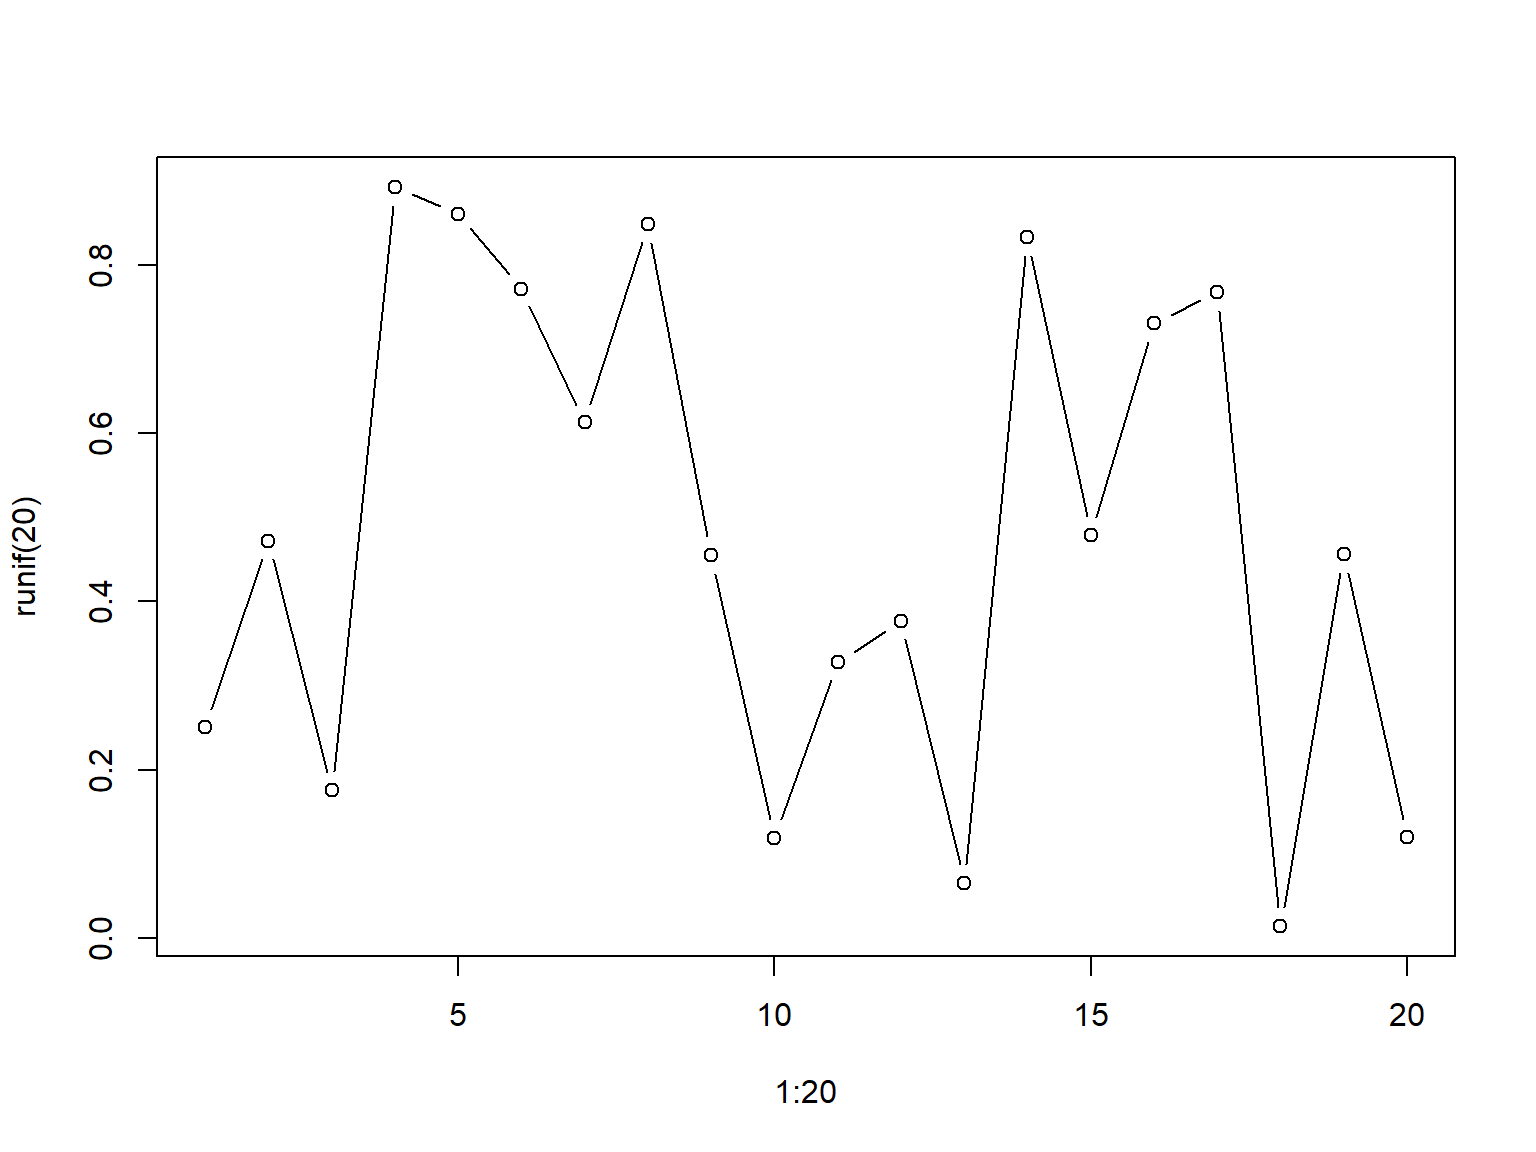
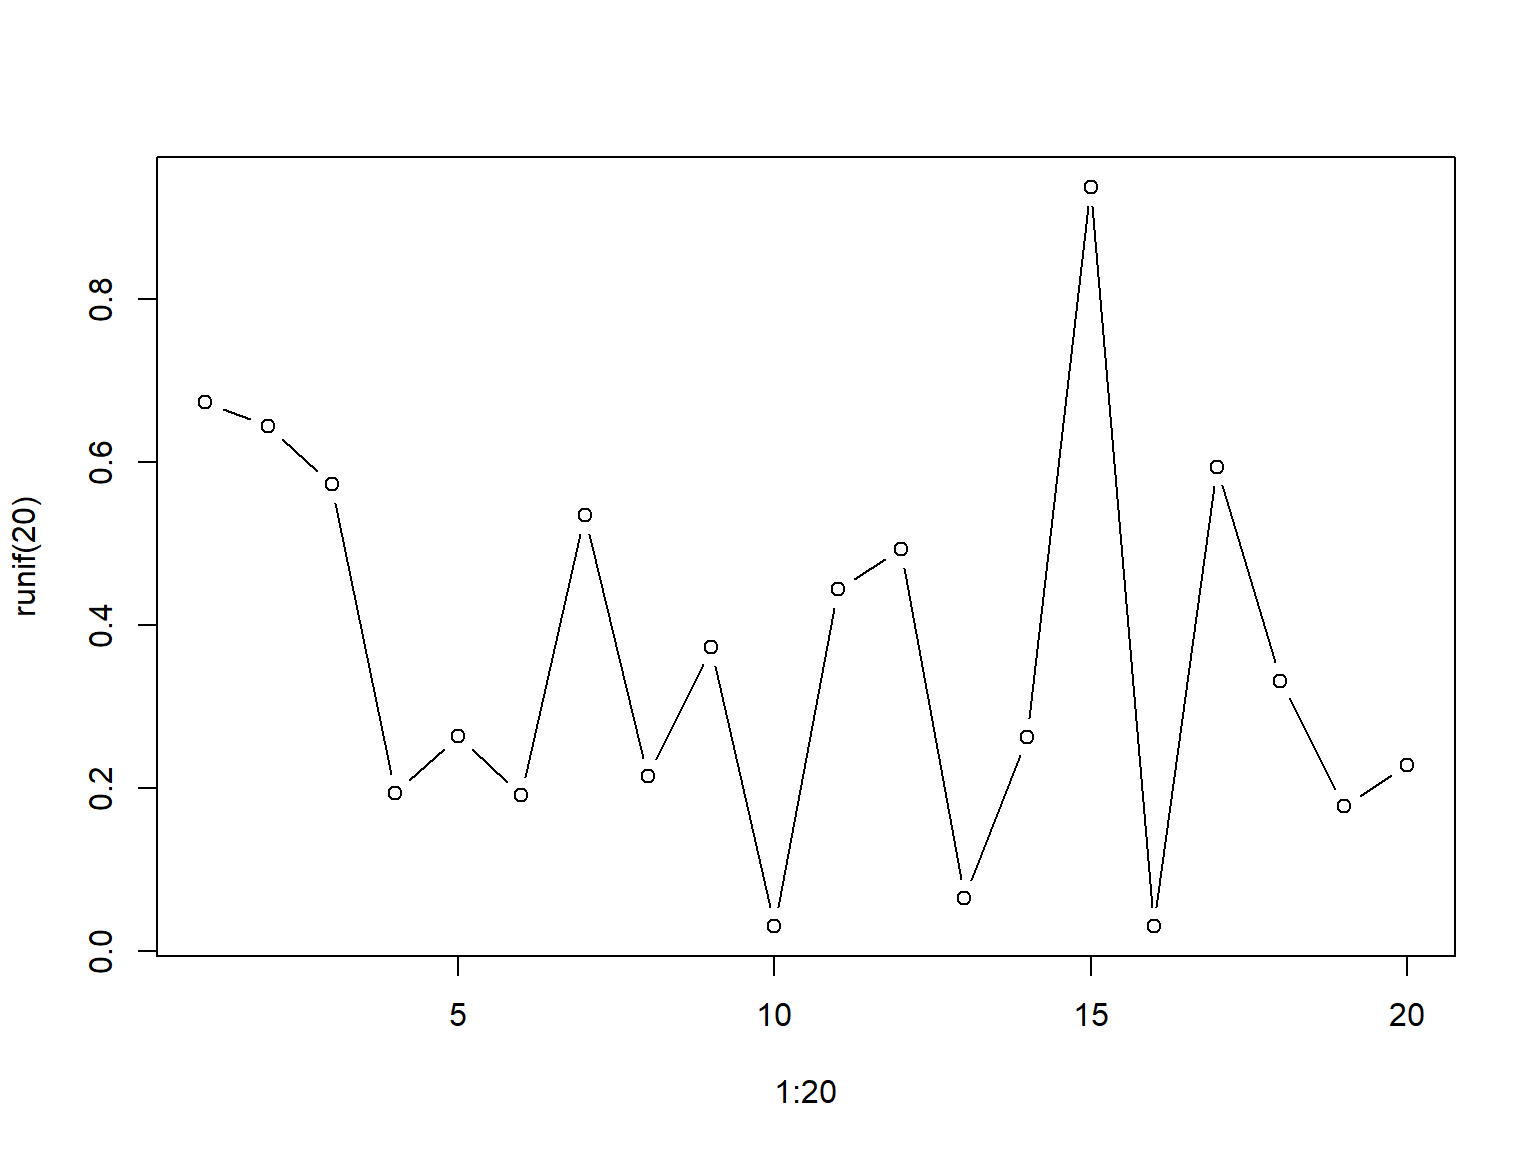
Updated Posit Cloud URL

diff --git a/slides/r-intro01-getting-started.html b/slides/r-intro01-getting-started.html
@@ -348,8 +348,8 @@ class="slide section level1">
 </div>
 <p>RStudio Cloud project for this workshop:</p>
 <p style="font-family:monospace; font-size:110%; text-align:center;">
-<a href="https://posit.cloud/content/6366989"
-target="_blank">https://posit.cloud/content/6366989</a>
+<a href="https://posit.cloud/content/6379477"
+target="_blank">https://posit.cloud/content/6379477</a>
 </p>
 <p>After it opens, click on ‘Save a Permanent Copy’:</p>
 <p><img src="images/rstudio-cloud_save-perm-copy_334x58.png"
@@ -554,12 +554,11 @@ style="margin-left:2em;" /></p>
 <p>Some built-in constants are also vectors:</p>
 <div class="indented2 indented2r">
 <div class="sourceCode" id="cb11"><pre class="sourceCode r"><code class="sourceCode r"><span id="cb11-1"><a href="#cb11-1" tabindex="-1"></a>LETTERS</span></code></pre></div>
-<pre><code>##  [1] &quot;A&quot; &quot;B&quot; &quot;C&quot; &quot;D&quot; &quot;E&quot; &quot;F&quot; &quot;G&quot; &quot;H&quot; &quot;I&quot; &quot;J&quot; &quot;K&quot; &quot;L&quot; &quot;M&quot; &quot;N&quot; &quot;O&quot; &quot;P&quot; &quot;Q&quot; &quot;R&quot; &quot;S&quot; &quot;T&quot; &quot;U&quot; &quot;V&quot; &quot;W&quot; &quot;X&quot; &quot;Y&quot;
-## [26] &quot;Z&quot;</code></pre>
+<pre><code>##  [1] &quot;A&quot; &quot;B&quot; &quot;C&quot; &quot;D&quot; &quot;E&quot; &quot;F&quot; &quot;G&quot; &quot;H&quot; &quot;I&quot; &quot;J&quot; &quot;K&quot; &quot;L&quot; &quot;M&quot; &quot;N&quot; &quot;O&quot; &quot;P&quot; &quot;Q&quot; &quot;R&quot; &quot;S&quot; &quot;T&quot; &quot;U&quot; &quot;V&quot; &quot;W&quot; &quot;X&quot; &quot;Y&quot; &quot;Z&quot;</code></pre>
 <div class="sourceCode" id="cb13"><pre class="sourceCode r"><code class="sourceCode r"><span id="cb13-1"><a href="#cb13-1" tabindex="-1"></a>state.abb</span></code></pre></div>
-<pre><code>##  [1] &quot;AL&quot; &quot;AK&quot; &quot;AZ&quot; &quot;AR&quot; &quot;CA&quot; &quot;CO&quot; &quot;CT&quot; &quot;DE&quot; &quot;FL&quot; &quot;GA&quot; &quot;HI&quot; &quot;ID&quot; &quot;IL&quot; &quot;IN&quot; &quot;IA&quot; &quot;KS&quot; &quot;KY&quot; &quot;LA&quot; &quot;ME&quot; &quot;MD&quot;
-## [21] &quot;MA&quot; &quot;MI&quot; &quot;MN&quot; &quot;MS&quot; &quot;MO&quot; &quot;MT&quot; &quot;NE&quot; &quot;NV&quot; &quot;NH&quot; &quot;NJ&quot; &quot;NM&quot; &quot;NY&quot; &quot;NC&quot; &quot;ND&quot; &quot;OH&quot; &quot;OK&quot; &quot;OR&quot; &quot;PA&quot; &quot;RI&quot; &quot;SC&quot;
-## [41] &quot;SD&quot; &quot;TN&quot; &quot;TX&quot; &quot;UT&quot; &quot;VT&quot; &quot;VA&quot; &quot;WA&quot; &quot;WV&quot; &quot;WI&quot; &quot;WY&quot;</code></pre>
+<pre><code>##  [1] &quot;AL&quot; &quot;AK&quot; &quot;AZ&quot; &quot;AR&quot; &quot;CA&quot; &quot;CO&quot; &quot;CT&quot; &quot;DE&quot; &quot;FL&quot; &quot;GA&quot; &quot;HI&quot; &quot;ID&quot; &quot;IL&quot; &quot;IN&quot; &quot;IA&quot; &quot;KS&quot; &quot;KY&quot; &quot;LA&quot; &quot;ME&quot; &quot;MD&quot; &quot;MA&quot;
+## [22] &quot;MI&quot; &quot;MN&quot; &quot;MS&quot; &quot;MO&quot; &quot;MT&quot; &quot;NE&quot; &quot;NV&quot; &quot;NH&quot; &quot;NJ&quot; &quot;NM&quot; &quot;NY&quot; &quot;NC&quot; &quot;ND&quot; &quot;OH&quot; &quot;OK&quot; &quot;OR&quot; &quot;PA&quot; &quot;RI&quot; &quot;SC&quot; &quot;SD&quot; &quot;TN&quot;
+## [43] &quot;TX&quot; &quot;UT&quot; &quot;VT&quot; &quot;VA&quot; &quot;WA&quot; &quot;WV&quot; &quot;WI&quot; &quot;WY&quot;</code></pre>
 <div class="sourceCode" id="cb15"><pre class="sourceCode r"><code class="sourceCode r"><span id="cb15-1"><a href="#cb15-1" tabindex="-1"></a>month.name</span></code></pre></div>
 <pre><code>##  [1] &quot;January&quot;   &quot;February&quot;  &quot;March&quot;     &quot;April&quot;     &quot;May&quot;       &quot;June&quot;      &quot;July&quot;      &quot;August&quot;   
 ##  [9] &quot;September&quot; &quot;October&quot;   &quot;November&quot;  &quot;December&quot;</code></pre>
@@ -569,15 +568,15 @@ style="margin-left:2em;" /></p>
 <p>Random number functions:</p>
 <div class="indented2 indented2r">
 <div class="sourceCode" id="cb17"><pre class="sourceCode r"><code class="sourceCode r"><span id="cb17-1"><a href="#cb17-1" tabindex="-1"></a><span class="fu">runif</span>(<span class="dv">20</span>)</span></code></pre></div>
-<pre><code>##  [1] 0.13724123 0.90967580 0.95916498 0.28452439 0.94888352 0.87076291 0.17417834 0.20654216 0.02797795
-## [10] 0.77642690 0.28631124 0.55688143 0.76142189 0.76096482 0.33047902 0.60247499 0.27794112 0.42819622
-## [19] 0.96425800 0.55037837</code></pre>
+<pre><code>##  [1] 0.28960558 0.75506059 0.81382127 0.84026429 0.26750383 0.76233468 0.08651249 0.11651580 0.91137763
+## [10] 0.83986285 0.21201486 0.87102117 0.33150280 0.54795351 0.82083292 0.89807044 0.18071378 0.04501254
+## [19] 0.17348171 0.71289717</code></pre>
 <div class="sourceCode" id="cb19"><pre class="sourceCode r"><code class="sourceCode r"><span id="cb19-1"><a href="#cb19-1" tabindex="-1"></a><span class="fu">rnorm</span>(<span class="dv">20</span>)</span></code></pre></div>
-<pre><code>##  [1] -0.71601518  0.31513379  0.61285272 -0.26047050  1.22856538 -0.13902304  0.92643487  0.69292538
-##  [9] -0.49466845  1.36246046  0.09480217  0.46264870  0.19817349  0.03711287  0.63470117 -0.64488792
-## [17] -0.07009347  0.10087078 -2.38676994  0.25094069</code></pre>
+<pre><code>##  [1]  0.005138621  1.306360544  0.669559672 -1.209143616  0.524340842  0.249217890 -1.275267769  0.567249864
+##  [9]  1.418774903  0.937092319  0.247763389  0.106870124  0.642635125  1.329374019 -1.490548528  0.496423820
+## [17]  1.094050008 -1.436988564  0.383092993  0.685422867</code></pre>
 <div class="sourceCode" id="cb21"><pre class="sourceCode r"><code class="sourceCode r"><span id="cb21-1"><a href="#cb21-1" tabindex="-1"></a><span class="fu">sample</span>(month.abb, <span class="dv">3</span>)</span></code></pre></div>
-<pre><code>## [1] &quot;Aug&quot; &quot;Dec&quot; &quot;Jan&quot;</code></pre>
+<pre><code>## [1] &quot;Feb&quot; &quot;Nov&quot; &quot;Dec&quot;</code></pre>
 </div>
 </div>
 <div id="how-vectors-behave" class="slide section level1">
@@ -623,20 +622,20 @@ style="margin-left:2em;" /></p>
 <div class="indented2 indented2r">
 <div class="sourceCode" id="cb35"><pre class="sourceCode r"><code class="sourceCode r"><span id="cb35-1"><a href="#cb35-1" tabindex="-1"></a>x <span class="ot">=</span> <span class="fu">runif</span>(<span class="dv">20</span>)</span>
 <span id="cb35-2"><a href="#cb35-2" tabindex="-1"></a>x</span></code></pre></div>
-<pre><code>##  [1] 0.23954585 0.79841092 0.89756932 0.38030821 0.55317182 0.97689259 0.30902970 0.26473726 0.55716379
-## [10] 0.32610245 0.60075766 0.97095523 0.06638261 0.49895284 0.88185201 0.76691584 0.03952577 0.81796886
-## [19] 0.82337989 0.88776325</code></pre>
+<pre><code>##  [1] 0.07776018 0.44457585 0.10576955 0.63342743 0.48043781 0.32770250 0.16562554 0.47371626 0.12380912
+## [10] 0.60824224 0.51544928 0.78518140 0.46762915 0.78595145 0.74019471 0.29814875 0.96499245 0.47281923
+## [19] 0.67874978 0.96527849</code></pre>
 </div>
 <p><br />
 </p>
 <p>Most descriptive stats functions are aggregate:</p>
 <div class="indented2 indented2r">
 <div class="sourceCode" id="cb37"><pre class="sourceCode r"><code class="sourceCode r"><span id="cb37-1"><a href="#cb37-1" tabindex="-1"></a><span class="fu">mean</span>(x)</span></code></pre></div>
-<pre><code>## [1] 0.5828693</code></pre>
+<pre><code>## [1] 0.5057731</code></pre>
 <div class="sourceCode" id="cb39"><pre class="sourceCode r"><code class="sourceCode r"><span id="cb39-1"><a href="#cb39-1" tabindex="-1"></a><span class="fu">median</span>(x)</span></code></pre></div>
-<pre><code>## [1] 0.5789607</code></pre>
+<pre><code>## [1] 0.477077</code></pre>
 <div class="sourceCode" id="cb41"><pre class="sourceCode r"><code class="sourceCode r"><span id="cb41-1"><a href="#cb41-1" tabindex="-1"></a><span class="fu">sd</span>(x)</span></code></pre></div>
-<pre><code>## [1] 0.303715</code></pre>
+<pre><code>## [1] 0.2693</code></pre>
 </div>
 <p><br />
 </p>

diff --git a/index.html b/index.html
@@ -296,8 +296,8 @@ target="_blank">https://etherpad.wikimedia.org/p/rspatial-bgf23</a>
 <h1 id="part-1-the-basics" class="section_head">
 PART 1: THE BASICS
 </h1>
-<h1 id="aug-26-getting-started">
-Aug. 26. Getting Started
+<h1 id="aug-26-am-getting-started">
+Aug. 26 (am). Getting Started
 </h1>
 <p style="font-size:100%;">
 10:00a - 12:00p. Getting to know RStudio, commands, vectors
@@ -328,8 +328,8 @@ notation
 <div class="hrleft">
 
 </div>
-<h1 id="aug-26-plotting-packages-functions-and-importing-data">
-Aug. 26. Plotting, Packages, Functions, and Importing Data
+<h1 id="aug-26-pm-plotting-packages-functions-and-importing-data">
+Aug. 26 (pm). Plotting, Packages, Functions, and Importing Data
 </h1>
 <p style="font-size:100%;">
 1:00p - 3:00p. Plotting, whats in a package, calling functions,

diff --git a/setup.html b/setup.html
@@ -369,7 +369,7 @@ requires setting up an account (free).</p>
 <p>To use RStudio Cloud for the workshop, login to your account and then
 click on this link:</p>
 <p class="indented2">
-<a href='https://posit.cloud/content/6366989' target='_blank' ref='noopener' style='font-family:monospace;'>https://posit.cloud/content/6366989</a>
+<a href='https://posit.cloud/content/6379477' target='_blank' ref='noopener' style='font-family:monospace;'>https://posit.cloud/content/6379477</a>
 </p>
 <p>This will open a RStudio Cloud project with all the required packages
 and data ready to go (you’ll get the scripts from the slide deck during

diff --git a/slides/r-intro02-packages.html b/slides/r-intro02-packages.html
@@ -518,7 +518,7 @@ them <em>starting with the 2nd argument</em> (or use named
 arguments):</p>
 <div class="indented2 indented2r">
 <div class="sourceCode" id="cb7"><pre class="sourceCode r"><code class="sourceCode r"><span id="cb7-1"><a href="#cb7-1" tabindex="-1"></a><span class="fu">runif</span>(<span class="dv">5</span>) <span class="sc">|&gt;</span> <span class="fu">round</span>(<span class="dv">2</span>)</span></code></pre></div>
-<pre><code>## [1] 0.04 0.24 0.18 0.20 0.82</code></pre>
+<pre><code>## [1] 0.95 0.51 0.25 0.23 0.34</code></pre>
 </div>
 <p><br />
 </p>

diff --git a/slides/wrkshp-intro-pt1.html b/slides/wrkshp-intro-pt1.html
@@ -296,8 +296,8 @@ rel="noopener">https://etherpad.wikimedia.org/p/rspatial-bgf23</a></li>
 <p><strong>Virtual Environment</strong></p>
 <div class="compact">
 <ul>
-<li><p><a href="https://posit.cloud/content/6366989" target="_blank"
-rel="noopener">https://posit.cloud/content/6366989</a></p></li>
+<li><p><a href="https://posit.cloud/content/6379477" target="_blank"
+rel="noopener">https://posit.cloud/content/6379477</a></p></li>
 <li><p>Data and packages pre-installed!</p></li>
 </ul>
 </div>

diff --git a/slides/review-class01.html b/slides/review-class01.html
@@ -356,8 +356,8 @@ scatter plot:</p>
 </ol>
 </div>
 <p style="font-family:monospace; font-size:110%; text-align:center;">
-<a href="https://posit.cloud/content/6366989"
-target="_blank">https://posit.cloud/content/6366989</a>
+<a href="https://posit.cloud/content/6379477"
+target="_blank">https://posit.cloud/content/6379477</a>
 </p>
 <p><br />
 </p>
